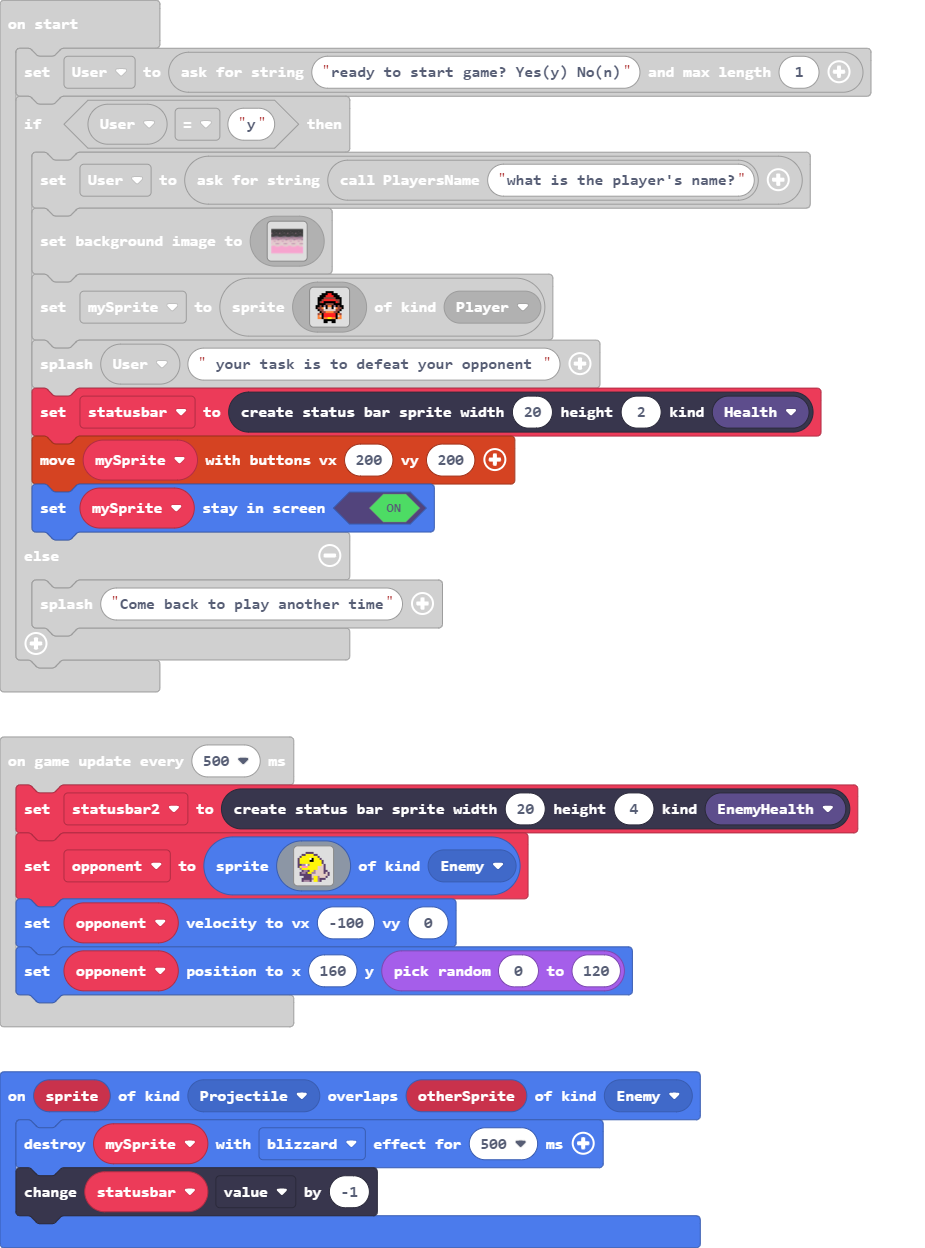
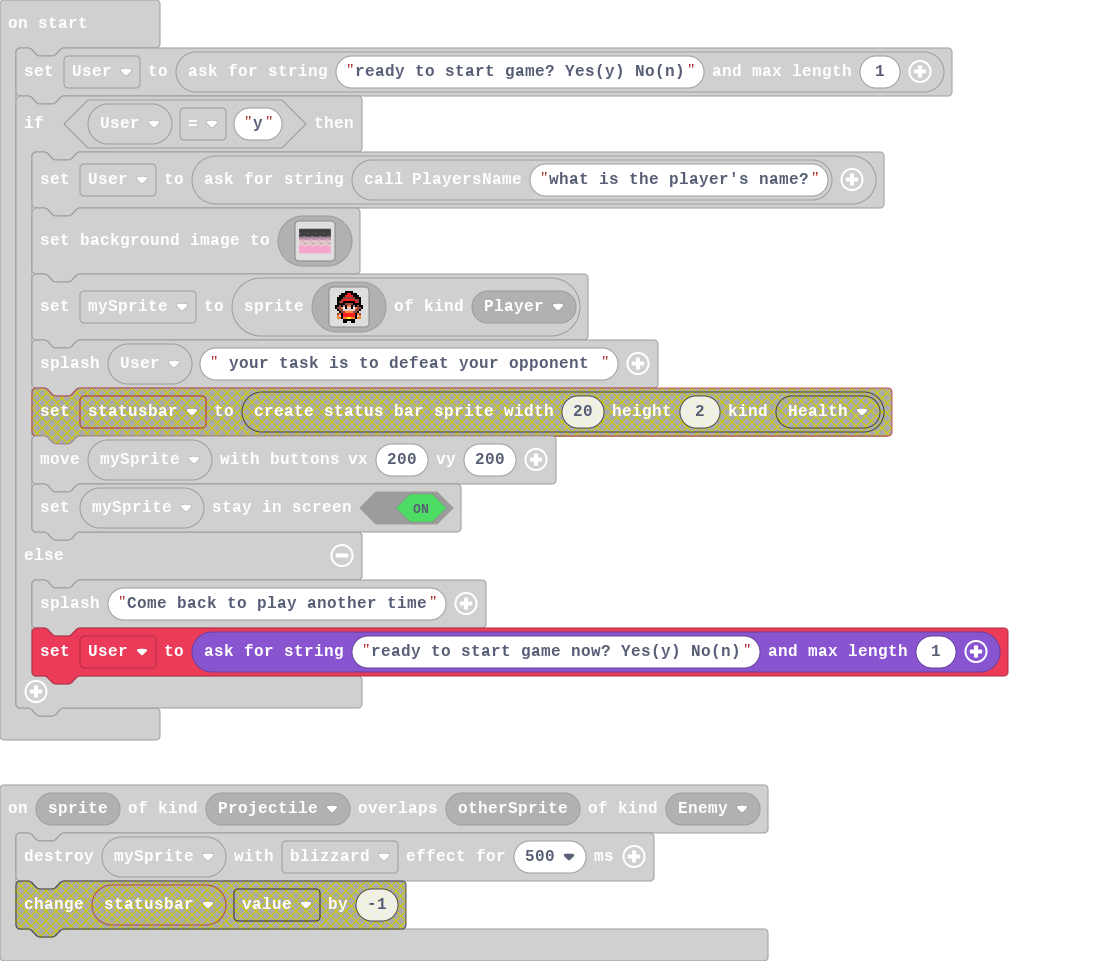
Update main.blocks, main.ts

diff --git a/main.ts b/main.ts
@@ -23,12 +23,10 @@ controller.A.onEvent(ControllerButtonEvent.Pressed, function () {
 })
 sprites.onOverlap(SpriteKind.Projectile, SpriteKind.Enemy, function (sprite, otherSprite) {
     mySprite.destroy(effects.blizzard, 500)
-    statusbar.value += -1
 })
 let opponent: Sprite = null
 let statusbar2: StatusBarSprite = null
 let projectile: Sprite = null
-let statusbar: StatusBarSprite = null
 let mySprite: Sprite = null
 let User = game.askForString("ready to start game? Yes(y) No(n)", 1)
 if (User == "y") {
@@ -174,11 +172,11 @@ if (User == "y") {
         . . . . . f f . . f f . . . . . 
         `, SpriteKind.Player)
     game.splash(User, " your task is to defeat your opponent ")
-    statusbar = statusbars.create(20, 2, StatusBarKind.Health)
     controller.moveSprite(mySprite, 200, 200)
     mySprite.setStayInScreen(true)
 } else {
     game.splash("Come back to play another time")
+    User = game.askForString("ready to start game now? Yes(y) No(n)", 1)
 }
 game.onUpdateInterval(500, function () {
     statusbar2 = statusbars.create(20, 4, StatusBarKind.EnemyHealth)
